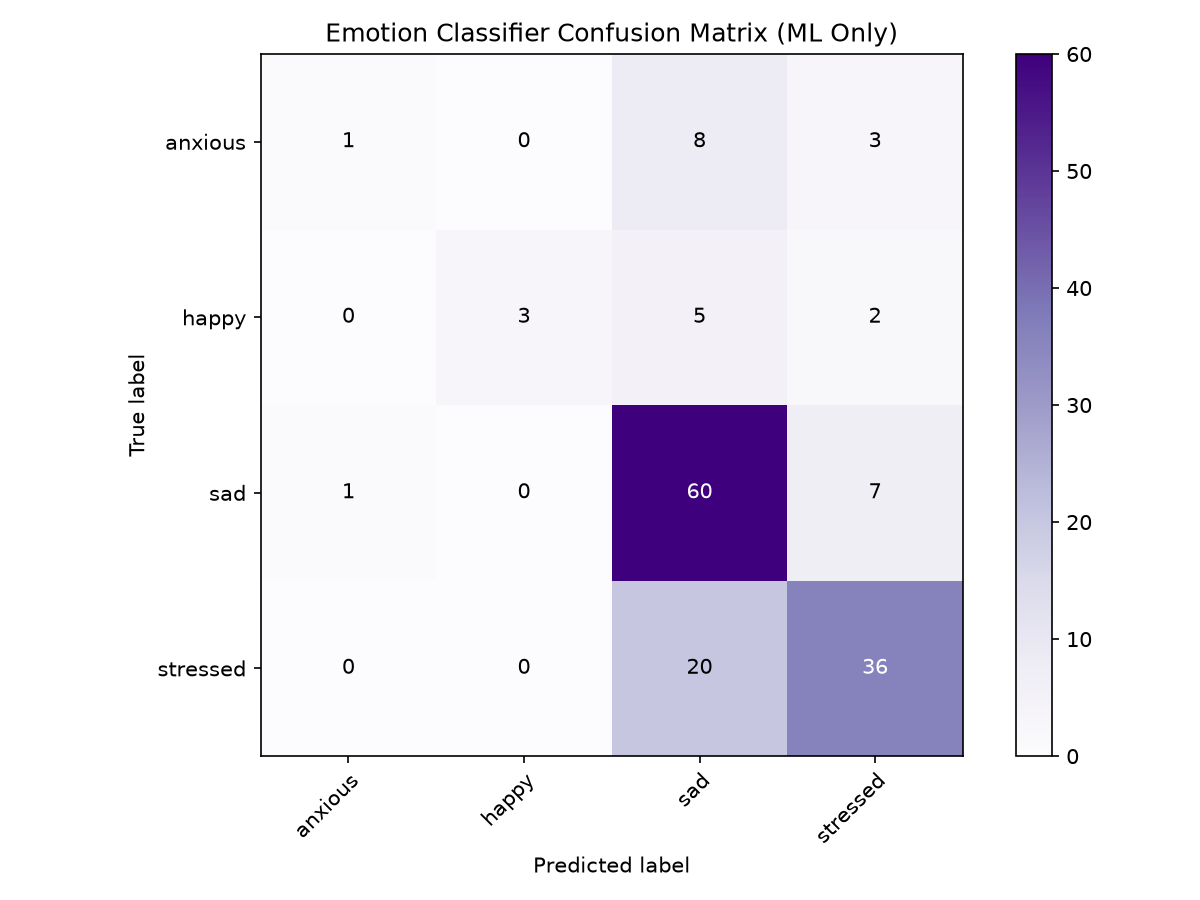
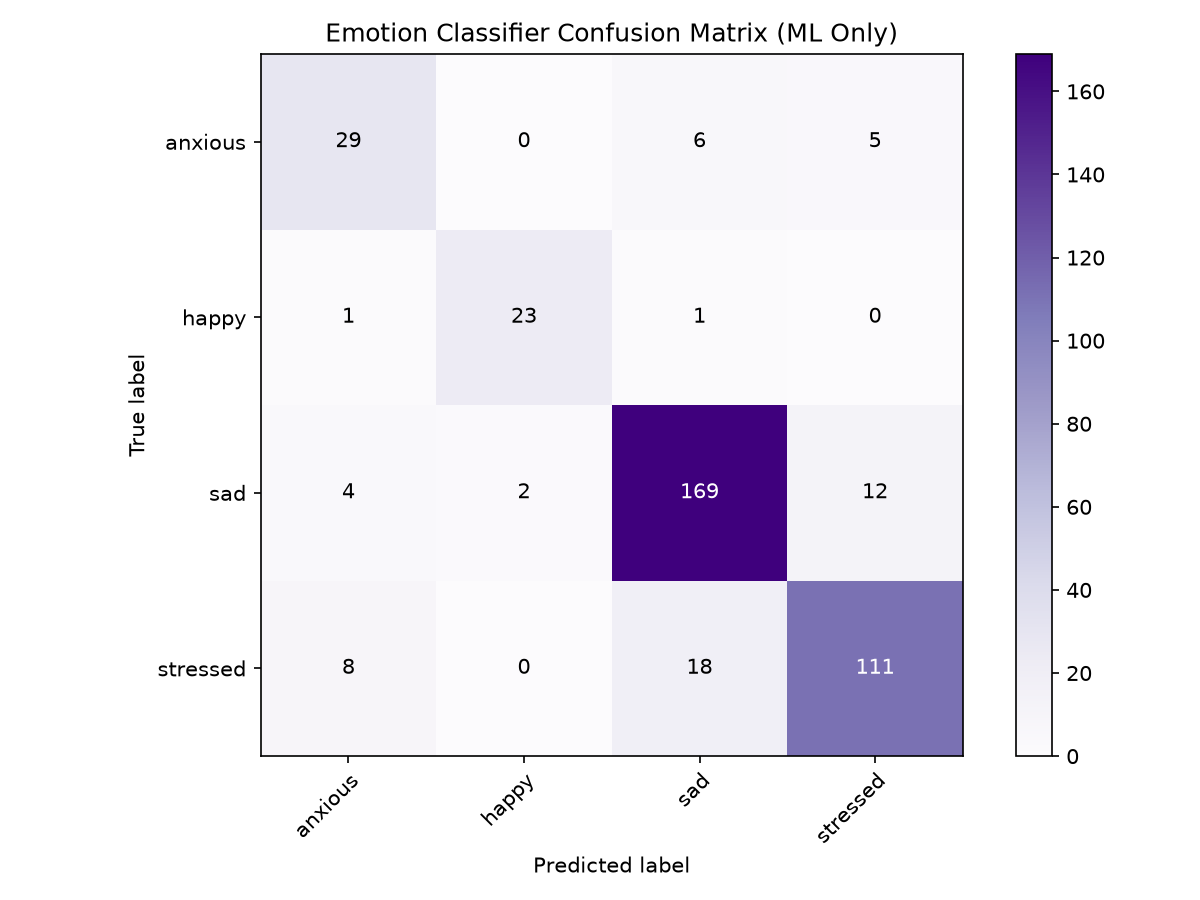
new update

diff --git a/frontend/services/emotionEngine.js b/frontend/services/emotionEngine.js
@@ -137,15 +137,18 @@ const REASON_KW = {
     ' struggle to feel', 'feel that motherly affection', 'not close to my baby', 'not close', 'feel close to my baby', 'feel close',
     'connection with my baby', 'attachment to my baby', 'can\'t connect with my baby',
     'cant connect with my baby', 'can\'t connect', 'cant connect', 'don\'t feel connected', 'dont feel connected', 'not attached to my baby',
+    'not emotionally connected', 'emotionally connected', 'not connected', 'emotional connection',
     'බැඳීමක් නෑ', 'බැඳීමක් නැහැ', 'ආදරයක් දැනෙන්නේ නෑ', 'ආදරයක් දැනෙන්නේ නැහැ', 'සම්බන්ධයක් නෑ', 'සම්බන්ධයක් නැහැ',
     'කිසිම හැඟීමක් නෑ', 'හැඟීමක් නැහැ', 'හැඟීමක් නෑ', 'ලං වෙලා නැහැ', 'ලං වෙලා නෑ', 'ලං වෙලා නැහැ වගේ',
     'ලොකු බැඳීමක්', 'බැඳීමක් දැනෙන්නේ නැහැ', 'බැඳීමක් දැනෙන්නේ නෑ', 'දැනෙන්නේ නැහැ', 'හොඳ අම්මා කෙනෙක් නෙවෙයිද',
     'අම්මා කෙනෙක් නෙවෙයිද', 'බැඳීමක් දැනෙන්නෙ නැහැ', 'බැඳීමක් දැනෙන්නෙ නෑ', 'බබා එක්ක ලොකු බැඳීමක්', 'බැඳීමක්',
     'සම්බන්ධ වෙන්න බැහැ', 'සම්බන්ධ වෙන්න බෑ', 'connection එකක් නැහැ', 'connection එකක් නෑ', 'ඈත් වෙලා වගේ', 'ඈත් වෙලා',
+    'විශේෂ ලංවීමක්', 'ලංවීමක්', 'ලංවීම', 'ලංවීමක් දැනෙන්න',
     'bandimak naha', 'danenne naha', 'connection ekak naha', 'connection ekak na', 'connection na', 'emotional connection na', 'emotional connection', 'bandeemak', 'bandeemak danenne na', 'bandeemak danenne naha',
     'bandimak danenne na', 'bandimak danenne naha', 'loku bandeemak', 'loku bandimak', 'danenne na',
     'wenas feeling', 'wenas feeling ekak', 'feeling ekak enne', 'baby langa hitiyath', 'loku bandeemak danenne na',
-    'bond wenna amarui', 'bond wenna', 'baba ekka close na', 'close na', 'baba ekka sambandha wenna ba', 'sambandha wenna ba'
+    'bond wenna amarui', 'bond wenna', 'baba ekka close na', 'close na', 'baba ekka sambandha wenna ba', 'sambandha wenna ba',
+    'special close feeling', 'special close feeling ekak', 'close feeling', 'close feeling ekak', 'lanweemak', 'langweemak'
   ],
   lack_of_support: [
     'husband', 'partner', 'no help', 'unsupported', 'nobody helps', 'no family', 'doing it alone',
@@ -257,8 +260,9 @@ const EMOTION_KW = {
   sad: [
     'sad', 'cry', 'unhappy', 'depressed', 'hopeless', 'hurt', 'empty', 'down', 'devastated',
     'empty feeling', 'no point', 'nothing matters', 'karaganna ba', 'wadak na', 'godak dukai',
-    'දුකයි', 'කඳුළු', 'අඬනවා', 'කනගාටුයි', 'වේදනාව', 'ගොඩක් දුකයි',
-    'dukai', 'dukayi', 'godak dukai', 'andana', 'kandulu', 'daneo', 'daneno'
+    'not emotionally connected', 'close feeling', 'special close feeling',
+    'දුකයි', 'කඳුළු', 'අඬනවා', 'කනගාටුයි', 'වේදනාව', 'ගොඩක් දුකයි', 'විශේෂ ලංවීමක්', 'ලංවීමක්',
+    'dukai', 'dukayi', 'godak dukai', 'andana', 'kandulu', 'daneo', 'daneno', 'lanweemak'
   ],
   stressed: [
     'stress', 'overwhelmed', 'tense', 'frustrated', 'on edge', 'pressure', 'anxious', 'irritated',

diff --git a/backend/services/youtubeService.js b/backend/services/youtubeService.js
@@ -31,21 +31,21 @@ const ALL_CURATED_VIDEOS = {
   },
 
   // Baby Crying
-  'j2C8MkY7Co8': {
-    id: 'j2C8MkY7Co8',
-    title: 'How To Calm A Crying Baby - Dr. Robert Hamilton Demonstrates "The Hold" (Official)',
-    description: 'Dr. Robert Hamilton demonstrates "The Hold" technique to calm a crying baby.',
-    channelTitle: 'Dr. Robert Hamilton',
-    url: 'https://www.youtube.com/watch?v=j2C8MkY7Co8',
-    thumbnail: 'https://img.youtube.com/vi/j2C8MkY7Co8/0.jpg'
+  'TWHOFDQHOUA': {
+    id: 'TWHOFDQHOUA',
+    title: 'Don’t Mistake Pain With Purple Crying',
+    description: 'Understanding newborn purple crying and distinguishing pain from normal crying cues.',
+    channelTitle: 'Emma Hubbard',
+    url: 'https://www.youtube.com/watch?v=TWHOFDQHOUA',
+    thumbnail: 'https://img.youtube.com/vi/TWHOFDQHOUA/0.jpg'
   },
-  'JePLWMMw3z0': {
-    id: 'JePLWMMw3z0',
-    title: 'Instantly Calm a Crying Baby (4 Little-Known Techniques That Work When Nothing Else Does)',
-    description: '4 little-known techniques to calm a crying baby when nothing else works.',
-    channelTitle: 'Pediatric Care Guidance',
-    url: 'https://www.youtube.com/watch?v=JePLWMMw3z0',
-    thumbnail: 'https://img.youtube.com/vi/JePLWMMw3z0/0.jpg'
+  '3G5aAQL3R_g': {
+    id: '3G5aAQL3R_g',
+    title: 'Every Type of Baby Cry Explained',
+    description: 'Decodable baby cry sounds and types explained for new parents.',
+    channelTitle: 'Emma Hubbard',
+    url: 'https://www.youtube.com/watch?v=3G5aAQL3R_g',
+    thumbnail: 'https://img.youtube.com/vi/3G5aAQL3R_g/0.jpg'
   },
   'kmbKaSRyZ-c': {
     id: 'kmbKaSRyZ-c',
@@ -673,9 +673,9 @@ const CURATED_VIDEO_LIBRARY = {
     stressed: ['qdXehiELnIA', 'n2Iu6NooqgE', '_FsNGM2cIpI']
   },
   baby_crying: {
-    default: ['j2C8MkY7Co8', 'JePLWMMw3z0', 'kmbKaSRyZ-c', 'n1NGKj2B2eU', 'bonding_cries_guide'],
-    stressed: ['j2C8MkY7Co8', 'JePLWMMw3z0', 'kmbKaSRyZ-c', 'n1NGKj2B2eU', 'bonding_cries_guide'],
-    anxious: ['j2C8MkY7Co8', 'JePLWMMw3z0', 'kmbKaSRyZ-c', 'n1NGKj2B2eU', 'bonding_cries_guide']
+    default: ['TWHOFDQHOUA', '3G5aAQL3R_g', 'kmbKaSRyZ-c', 'n1NGKj2B2eU', 'bonding_cries_guide'],
+    stressed: ['TWHOFDQHOUA', '3G5aAQL3R_g', 'kmbKaSRyZ-c', 'n1NGKj2B2eU', 'bonding_cries_guide'],
+    anxious: ['TWHOFDQHOUA', '3G5aAQL3R_g', 'kmbKaSRyZ-c', 'n1NGKj2B2eU', 'bonding_cries_guide']
   },
   baby_sleep: {
     default: ['SfCxUG1nE84', 'pJYWRlTQ9s8', 'n1NGKj2B2eU'],
@@ -916,7 +916,7 @@ function getCuratedVideos(reason, emotion, babyContext, subIntent = '', requestS
     financial_worry: ['6m9sCmDIlL0', 'AJpErm8H2aU', 'gA-Eokbod38'],
     negative_thoughts: ['9Q634rbsypE', 'hrozJ-EbdGI', '2OEL4P1Rz04'],
     anxiety: ['hrozJ-EbdGI', 'sF80I-TQiW0', '9Q634rbsypE'],
-    baby_crying: ['j2C8MkY7Co8', 'JePLWMMw3z0', 'kmbKaSRyZ-c'],
+    baby_crying: ['TWHOFDQHOUA', '3G5aAQL3R_g', 'kmbKaSRyZ-c'],
     baby_feeding: ['qdXehiELnIA', '_FsNGM2cIpI', 'n2Iu6NooqgE'],
     baby_sleep: ['SfCxUG1nE84', 'pJYWRlTQ9s8', 'n1NGKj2B2eU'],
     understanding_baby: ['6rx_-__NsjU', 'dEQOWf-NuKs', 'fpiYNkkNmEo'],

diff --git a/frontend/screens/DashboardScreen copy.js b/frontend/screens/DashboardScreen copy.js
@@ -129,17 +129,6 @@ const DashboardScreenCopy = ({ navigation }) => {
               <Text style={s.systemNoteText}>{SI.systemNote}</Text>
             </View>
 
-            {/* Detected Mood Card */}
-            <LinearGradient colors={ec.gradient} style={s.moodCard}>
-              <Text style={s.moodCardLabel}>{SI.detectedMood}</Text>
-              <View style={s.moodRow}>
-                <Text style={s.moodEmojiBig}>{selectedEmoji}</Text>
-                <View>
-                  <Text style={[s.moodName, { color: ec.color }]}>{selectedFeeling}</Text>
-                  <Text style={s.moodSub}>{SI.diaryProcessed}</Text>
-                </View>
-              </View>
-            </LinearGradient>
 
             {/* Risk Level Card */}
             <View style={[s.riskCard, { backgroundColor: riskBg }]}>

diff --git a/backend/test_hybrid.js b/backend/test_hybrid.js
@@ -70,7 +70,7 @@ async function runTests() {
     console.log('Videos:', results.map(r => ({ title: r.title, id: r.id, source: r.source })));
 
     // Verifications
-    const hasBabyCare = results.some(r => r.id === 'qdXehiELnIA' || r.id === 'kmbKaSRyZ-c' || r.id === 'j2C8MkY7Co8');
+    const hasBabyCare = results.some(r => r.id === 'qdXehiELnIA' || r.id === 'kmbKaSRyZ-c' || r.id === 'j2C8MkY7Co8' || r.id === 'TWHOFDQHOUA' || r.id === '3G5aAQL3R_g');
     console.log('No breastfeeding or baby sleep/crying videos included:', !hasBabyCare ? '✅' : '❌');
     console.log('Passed Cap Check (<= 5):', results.length <= 5 ? '✅' : '❌');
   } catch (err) {

diff --git a/frontend/ml/evaluate_diary_pipeline.py b/frontend/ml/evaluate_diary_pipeline.py
@@ -172,19 +172,21 @@ REASON_KEYWORDS = {
     "bonding_issues": [
         "bonding", "bond with my baby", "bonding with baby", "feel close to my baby", "not close to my baby",
         "distant", "emotionally distant", "emotionally distant from my baby", "don't feel connected to my baby", "do not feel connected to my baby", "can't connect with my baby", "cannot connect with my baby", "cannot connect with my newborn", "connect with my newborn", "how to connect with my newborn",
-        "connection with my baby", "attachment to my baby", "not attached to my baby", "feel disconnected from my baby",
+        "connection with my baby", "attachment to my baby", "not attached to my baby", "feel disconnected from my baby", "not emotionally connected", "emotionally connected",
         "not bonding with my baby", "don't feel the connection", "do not feel the connection", "don't feel close", "do not feel close",
         "don't know how to connect", "do not know how to connect", "building a bond", "build a bond", "close to my baby", "cannot feel a real connection",
         "detached from my child", "feel empty instead of love", "like a caregiver not a mother", "baby feels like a stranger",
-        " disconnected", "attachment", "maternal instinct", "guilt", "guilty",
+        " disconnected", "attachment", "maternal instinct", "guilt", "guilty", "special close feeling", "close feeling",
         "මගේ බබාට ලං වෙලා නැහැ", "බබා එක්ක බැඳීමක් නැහැ", "බබා එක්ක සම්බන්ධ වෙන්න බැහැ", "බබා එක්ක connection එකක් නැහැ",
         "බබාගෙන් ඈත් වෙලා වගේ", "මගේ බබාට මම ලං වෙලා නැහැ වගේ දැනෙනවා", "මට මගේ බබා එක්ක කලින් හිතුවා වගේ බැඳීමක් දැනෙන්නේ නැහැ",
         "මගේ බබා එක්ක සම්බන්ධ වෙන්න බැරි වගේ මට දැනෙනවා", "හොඳ අම්මා කෙනෙක් නෙමෙයි වගේ", "ආදරයක් දැනෙන්නේ නැහැ", "බැඳීමක් නැහැ", "සම්බන්ධයක් නැහැ",
+        "විශේෂ ලංවීමක්", "ලංවීමක්", "ලංවීම",
         "mage baba ekka bond wenna amarui", "mage baba ekka connection ekak na", "baba ekka close na", "baba ekka emotional connection na",
         "baba ekka sambandha wenna ba", "mata mage baba ekka bond wenna amarui wage danenawa", "mage baba langa innakotath mata eya ekka emotional connection ekak danenne na",
         "mata hithenawa mama mage babata hariyata adare pennanne na wage mata eka gana guilt ekak thiyenawa",
         "baba wa balagena innakota mata sathutu wenna one wage hithenawa habai mata ehema feeling ekak enne na",
-        "mata mage baba ekka bond ekak danenne naha", "mata baba ekka adarayak danenne naha", "mage babata mama langa wela naha wage danenawa"
+        "mata mage baba ekka bond ekak danenne naha", "mata baba ekka adarayak danenne naha", "mage babata mama langa wela naha wage danenawa",
+        "special close feeling ekak", "lanweemak", "langweemak"
     ],
     "financial_worry": [
         "financial", "finance", "money", "money problems", "financial worry", "financial stability", "expenses", "costs", "afford", "can't afford",
